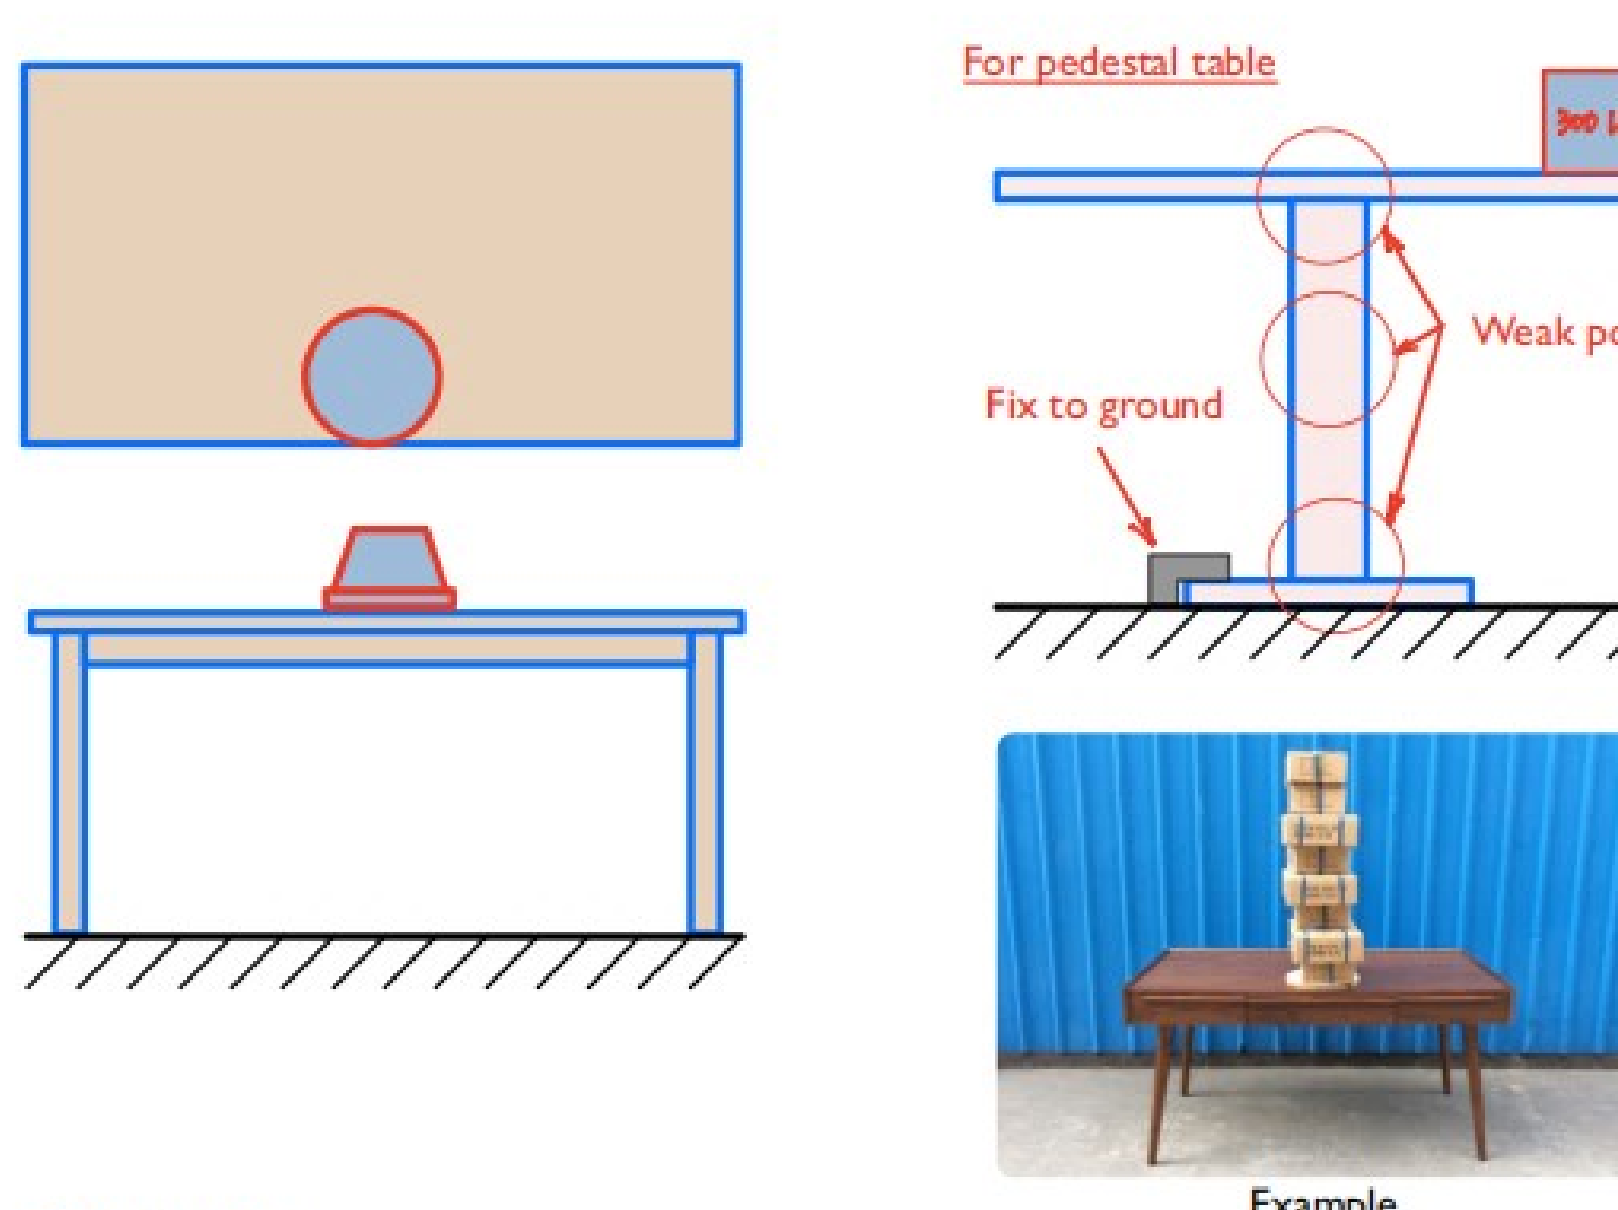
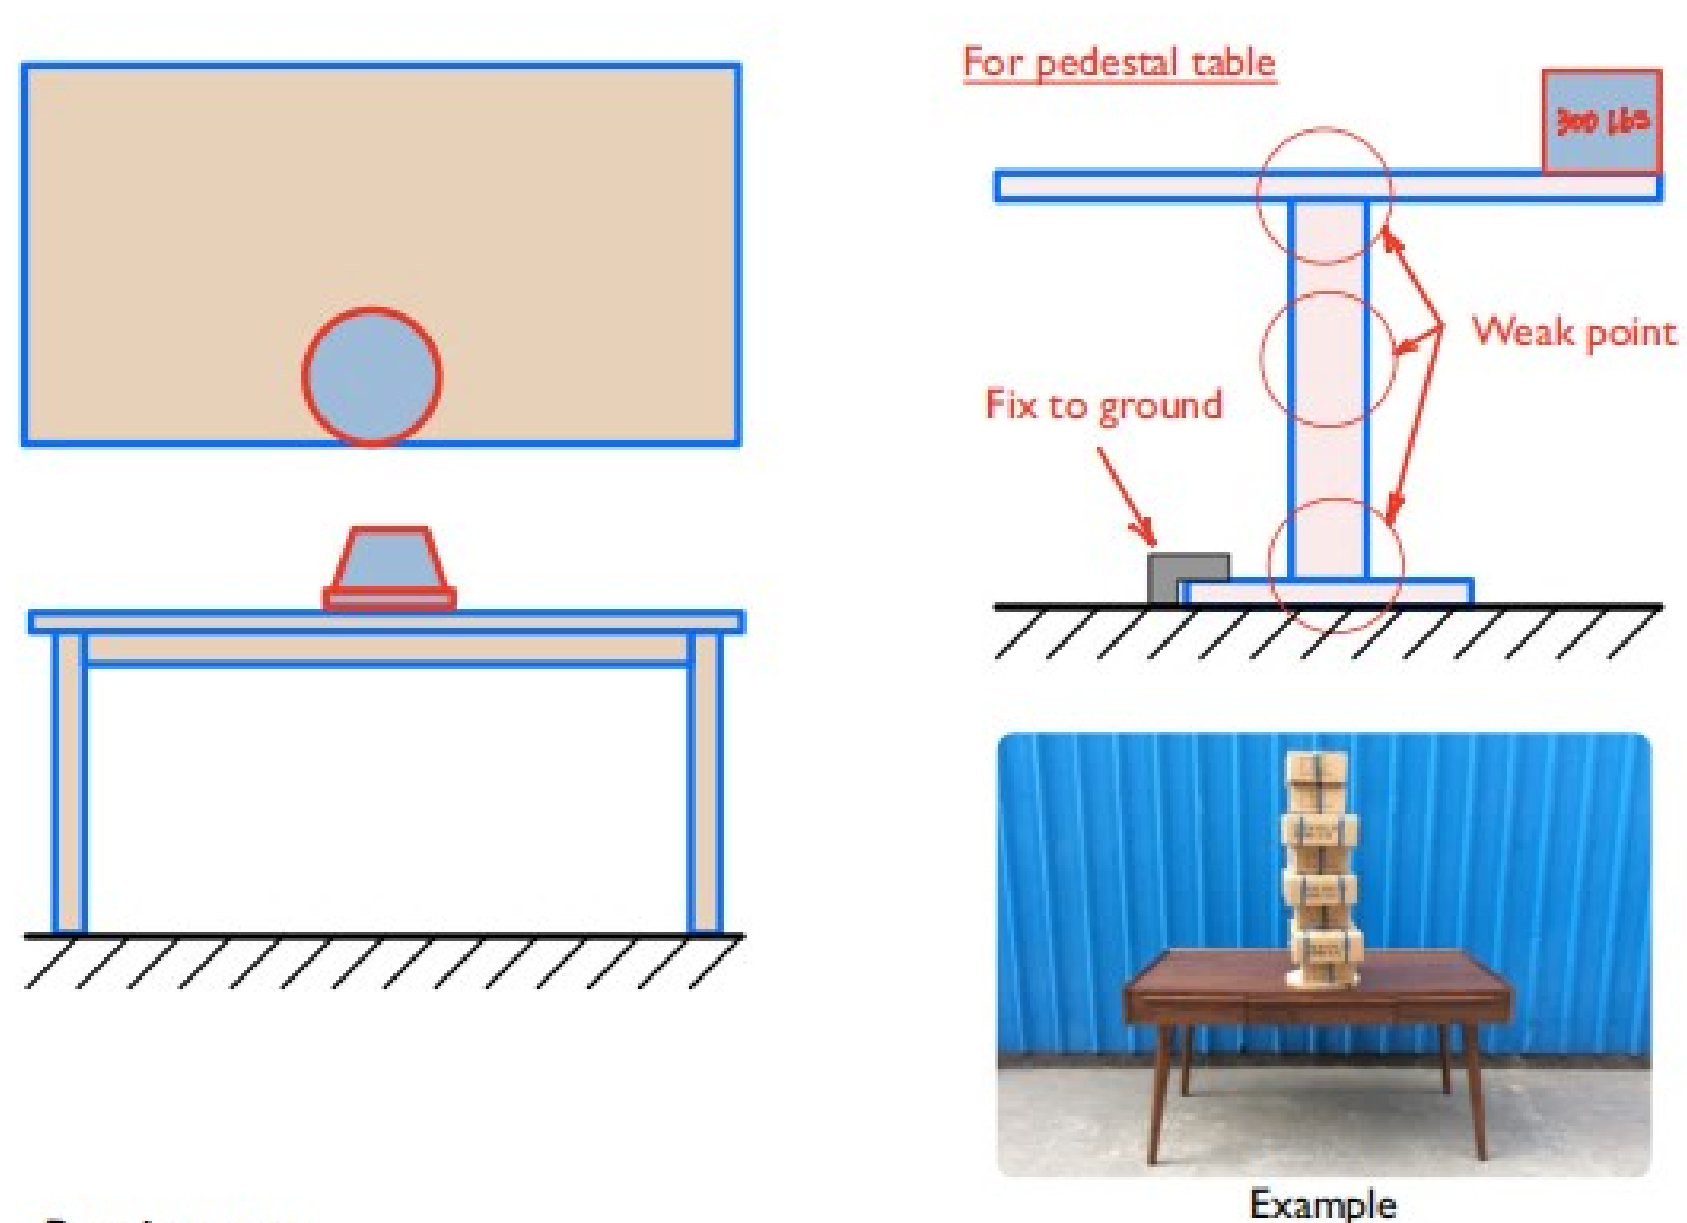
换用重裁的 2 张图示（右边缘不再截断）；11 张图均包一层点击看原图链接

diff --git a/tech/upholstery-construction-test.html b/tech/upholstery-construction-test.html
@@ -69,8 +69,8 @@
                     <li><strong>垂直方向</strong>：在扶手顶部垂直施加 300 lb 静载荷，持续 1 分钟。无破损、无永久性变形视为通过。适用于垂直方向受力的扶手。</li>
                 </ul>
                 <figure class="figure">
-                    <img src="/images/tech/upholstery-01-arm.png" alt="扶手水平 75 lb 与顶部垂直 300 lb 的加载位置示意" loading="lazy">
-                    <figcaption>扶手水平方向 75 lb 与顶部垂直 300 lb 的加载位置</figcaption>
+                    <a href="/images/tech/upholstery-01-arm.png" target="_blank" rel="noopener"><img src="/images/tech/upholstery-01-arm.png" alt="扶手水平 75 lb 与顶部垂直 300 lb 的加载位置示意" loading="lazy"></a>
+                    <figcaption>扶手水平方向 75 lb 与顶部垂直 300 lb 的加载位置<span class="figure-zoom">点击查看原图</span></figcaption>
                 </figure>
                 <details>
                     <summary>原文对照</summary>
@@ -87,8 +87,8 @@
                     <li><strong>垂直向下方向</strong>：在靠背顶部垂直向下施加 300 lb 静载荷，持续 1 分钟。无破损视为通过。适用于垂直向下受力的靠背。</li>
                 </ul>
                 <figure class="figure">
-                    <img src="/images/tech/upholstery-02-back.png" alt="靠背向后 150 lb 与顶部垂直向下 300 lb 的加载位置示意" loading="lazy">
-                    <figcaption>靠背向后 150 lb 与顶部垂直向下 300 lb 的加载位置</figcaption>
+                    <a href="/images/tech/upholstery-02-back.png" target="_blank" rel="noopener"><img src="/images/tech/upholstery-02-back.png" alt="靠背向后 150 lb 与顶部垂直向下 300 lb 的加载位置示意" loading="lazy"></a>
+                    <figcaption>靠背向后 150 lb 与顶部垂直向下 300 lb 的加载位置<span class="figure-zoom">点击查看原图</span></figcaption>
                 </figure>
                 <details>
                     <summary>原文对照</summary>
@@ -105,8 +105,8 @@
                     <li><strong>座面前部</strong>：在座面前部施加 300 lb 静态载荷，持续 1 分钟。无破损、无永久性变形视为通过。</li>
                 </ul>
                 <figure class="figure">
-                    <img src="/images/tech/upholstery-03-seat-static.png" alt="座面中心 500 lb 与座面前部 300 lb 的加载位置示意" loading="lazy">
-                    <figcaption>座面中心 500 lb 与座面前部 300 lb 的加载位置</figcaption>
+                    <a href="/images/tech/upholstery-03-seat-static.png" target="_blank" rel="noopener"><img src="/images/tech/upholstery-03-seat-static.png" alt="座面中心 500 lb 与座面前部 300 lb 的加载位置示意" loading="lazy"></a>
+                    <figcaption>座面中心 500 lb 与座面前部 300 lb 的加载位置<span class="figure-zoom">点击查看原图</span></figcaption>
                 </figure>
                 <details>
                     <summary>原文对照</summary>
@@ -124,8 +124,8 @@
                     <li>每个座垫均不得出现结构性破损。</li>
                 </ul>
                 <figure class="figure">
-                    <img src="/images/tech/upholstery-04-seat-dynamic.png" alt="座面中心动态冲击载荷的加载位置示意" loading="lazy">
-                    <figcaption>座面中心动态冲击载荷的加载位置</figcaption>
+                    <a href="/images/tech/upholstery-04-seat-dynamic.png" target="_blank" rel="noopener"><img src="/images/tech/upholstery-04-seat-dynamic.png" alt="座面中心动态冲击载荷的加载位置示意" loading="lazy"></a>
+                    <figcaption>座面中心动态冲击载荷的加载位置<span class="figure-zoom">点击查看原图</span></figcaption>
                 </figure>
                 <details>
                     <summary>原文对照</summary>
@@ -138,8 +138,8 @@
                 <p class="standard"><strong>引用标准</strong>：CPSD-HL-01034-MTHD</p>
                 <p><strong>测试要求</strong>：在椅脚末端 1 英寸处挂重 75 lb，持续 1 分钟。前、后、左、右四个方向均需测试。未出现破损、变形无法复原视为通过，反之为不通过。</p>
                 <figure class="figure">
-                    <img src="/images/tech/upholstery-05-leg.png" alt="椅脚末端 1 英寸处前后左右四个方向各 75 lb 的加载位置示意" loading="lazy">
-                    <figcaption>椅脚末端 1 英寸处、前后左右四个方向各 75 lb 的加载位置</figcaption>
+                    <a href="/images/tech/upholstery-05-leg.png" target="_blank" rel="noopener"><img src="/images/tech/upholstery-05-leg.png" alt="椅脚末端 1 英寸处前后左右四个方向各 75 lb 的加载位置示意" loading="lazy"></a>
+                    <figcaption>椅脚末端 1 英寸处、前后左右四个方向各 75 lb 的加载位置<span class="figure-zoom">点击查看原图</span></figcaption>
                 </figure>
                 <details>
                     <summary>原文对照</summary>
@@ -152,8 +152,8 @@
                 <p class="standard"><strong>引用标准</strong>：CPSD-HL-01011-MTHD</p>
                 <p><strong>测试要求</strong>：将产品放置在 10 度斜坡上，朝向最不稳定（最易倾倒）的方向；在每个上段槽位均匀加载至 150 lb。产品不倾倒视为通过，反之为不通过。</p>
                 <figure class="figure">
-                    <img src="/images/tech/upholstery-06-tilt.png" alt="产品置于 10 度斜坡、上部均匀加载 150 lb 的示意" loading="lazy">
-                    <figcaption>产品置于 10 度斜坡、上部均匀加载 150 lb</figcaption>
+                    <a href="/images/tech/upholstery-06-tilt.png" target="_blank" rel="noopener"><img src="/images/tech/upholstery-06-tilt.png" alt="产品置于 10 度斜坡、上部均匀加载 150 lb 的示意" loading="lazy"></a>
+                    <figcaption>产品置于 10 度斜坡、上部均匀加载 150 lb<span class="figure-zoom">点击查看原图</span></figcaption>
                 </figure>
                 <details>
                     <summary>原文对照</summary>

diff --git a/tech/table-construction-test.html b/tech/table-construction-test.html
@@ -65,8 +65,8 @@
                 <p><strong>测试方法</strong>：在距桌脚末端 1 英寸（约 25 mm）处垂直施加静载荷，持续 1 分钟。载荷需在前、后、左、右四个方向分别施加。</p>
                 <p><strong>测试载荷</strong>取决于样品类别：</p>
                 <figure class="figure">
-                    <img src="/images/tech/table-01-leg-strength.png" alt="桌脚受力位置与加载方向示意，右侧为现场桌脚强度测试示例" loading="lazy">
-                    <figcaption>左为桌脚受力位置与加载方向，右为现场实物测试示例</figcaption>
+                    <a href="/images/tech/table-01-leg-strength.png" target="_blank" rel="noopener"><img src="/images/tech/table-01-leg-strength.png" alt="桌脚受力位置与加载方向示意，右侧为现场桌脚强度测试示例" loading="lazy"></a>
+                    <figcaption>左为桌脚受力位置与加载方向，右为现场实物测试示例<span class="figure-zoom">点击查看原图</span></figcaption>
                 </figure>
 
                 <div class="table-scroll">
@@ -107,8 +107,8 @@
                 <h2>二、稳定性测试（Stability Test）</h2>
                 <p><strong>测试方法</strong>：测试载荷施加在直径 12 英寸圆盘边缘向内 1 英寸处。</p>
                 <figure class="figure">
-                    <img src="/images/tech/table-02-stability.png" alt="桌面三个加载点位置、12 英寸圆盘与距边 1 英寸的尺寸关系示意" loading="lazy">
-                    <figcaption>桌面三个加载点（1、2、3）位置与 12 英寸圆盘、距边 1 英寸的尺寸关系；右为现场示例</figcaption>
+                    <a href="/images/tech/table-02-stability.png" target="_blank" rel="noopener"><img src="/images/tech/table-02-stability.png" alt="桌面三个加载点位置、12 英寸圆盘与距边 1 英寸的尺寸关系示意" loading="lazy"></a>
+                    <figcaption>桌面三个加载点（1、2、3）位置与 12 英寸圆盘、距边 1 英寸的尺寸关系；右为现场示例<span class="figure-zoom">点击查看原图</span></figcaption>
                 </figure>
 
                 <div class="table-scroll">
@@ -137,8 +137,8 @@
                 <h2>三、集中载荷测试（Concentrated Load Capacity Test）</h2>
                 <p><strong>测试方法</strong>：测试载荷施加在直径 12 英寸的圆盘上，圆盘距边缘 6 英寸。载荷按桌面平方英尺计算，最大不超过 300 lb。加载后保持 1 小时。</p>
                 <figure class="figure">
-                    <img src="/images/tech/table-03-concentrated.png" alt="集中载荷加载位置与桌体受力示意，柱式桌薄弱点与固定要求" loading="lazy">
-                    <figcaption>左为集中载荷加载位置与桌体受力，右为柱式桌的薄弱点（Weak point）与固定要求；下方为现场示例</figcaption>
+                    <a href="/images/tech/table-03-concentrated.png" target="_blank" rel="noopener"><img src="/images/tech/table-03-concentrated.png" alt="集中载荷加载位置与桌体受力示意，柱式桌薄弱点与固定要求" loading="lazy"></a>
+                    <figcaption>左为集中载荷加载位置与桌体受力，右为柱式桌的薄弱点（Weak point）与固定要求；下方为现场示例<span class="figure-zoom">点击查看原图</span></figcaption>
                 </figure>
 
                 <div class="table-scroll">
@@ -165,8 +165,8 @@
                 <h2>四、均布载荷测试（Distributed Load Capacity Test）</h2>
                 <p><strong>测试方法</strong>：测试载荷均匀分布在桌面。载荷按平方英尺计算，最大不超过 200 lb。加载后保持 1 小时。</p>
                 <figure class="figure">
-                    <img src="/images/tech/table-04-distributed.png" alt="均布载荷在桌面上的分布示意与现场均布加载示例" loading="lazy">
-                    <figcaption>左为均布载荷在桌面上的分布，右为现场均布加载示例</figcaption>
+                    <a href="/images/tech/table-04-distributed.png" target="_blank" rel="noopener"><img src="/images/tech/table-04-distributed.png" alt="均布载荷在桌面上的分布示意与现场均布加载示例" loading="lazy"></a>
+                    <figcaption>左为均布载荷在桌面上的分布，右为现场均布加载示例<span class="figure-zoom">点击查看原图</span></figcaption>
                 </figure>
 
                 <div class="table-scroll">
@@ -209,8 +209,8 @@
                 <h2>五、产品跌落冲击测试（Product Drop Impact Test）</h2>
                 <p><strong>测试方法</strong>：将桌子一端抬高至 10 英寸高度，使其自由落体至地面。</p>
                 <figure class="figure">
-                    <img src="/images/tech/table-05-drop.png" alt="桌子一端抬高 10 英寸后自由跌落示意与现场跌落测试示例" loading="lazy">
-                    <figcaption>左为一端抬高 10 英寸后自由跌落，右为现场跌落测试示例</figcaption>
+                    <a href="/images/tech/table-05-drop.png" target="_blank" rel="noopener"><img src="/images/tech/table-05-drop.png" alt="桌子一端抬高 10 英寸后自由跌落示意与现场跌落测试示例" loading="lazy"></a>
+                    <figcaption>左为一端抬高 10 英寸后自由跌落，右为现场跌落测试示例<span class="figure-zoom">点击查看原图</span></figcaption>
                 </figure>
 
                 <p class="criteria"><strong>判定</strong>：原资料未列出单独判定条款。</p>

diff --git a/style.css b/style.css
@@ -1056,3 +1056,19 @@ details p {
     color: #788694;
     line-height: 1.6;
 }
+
+.figure a {
+    display: block;
+    text-decoration: none;
+}
+
+.figure a:hover img {
+    border-color: #cdbb8f;
+}
+
+.figure-zoom {
+    display: block;
+    margin-top: 4px;
+    color: #007bff;
+    font-size: 0.95em;
+}
